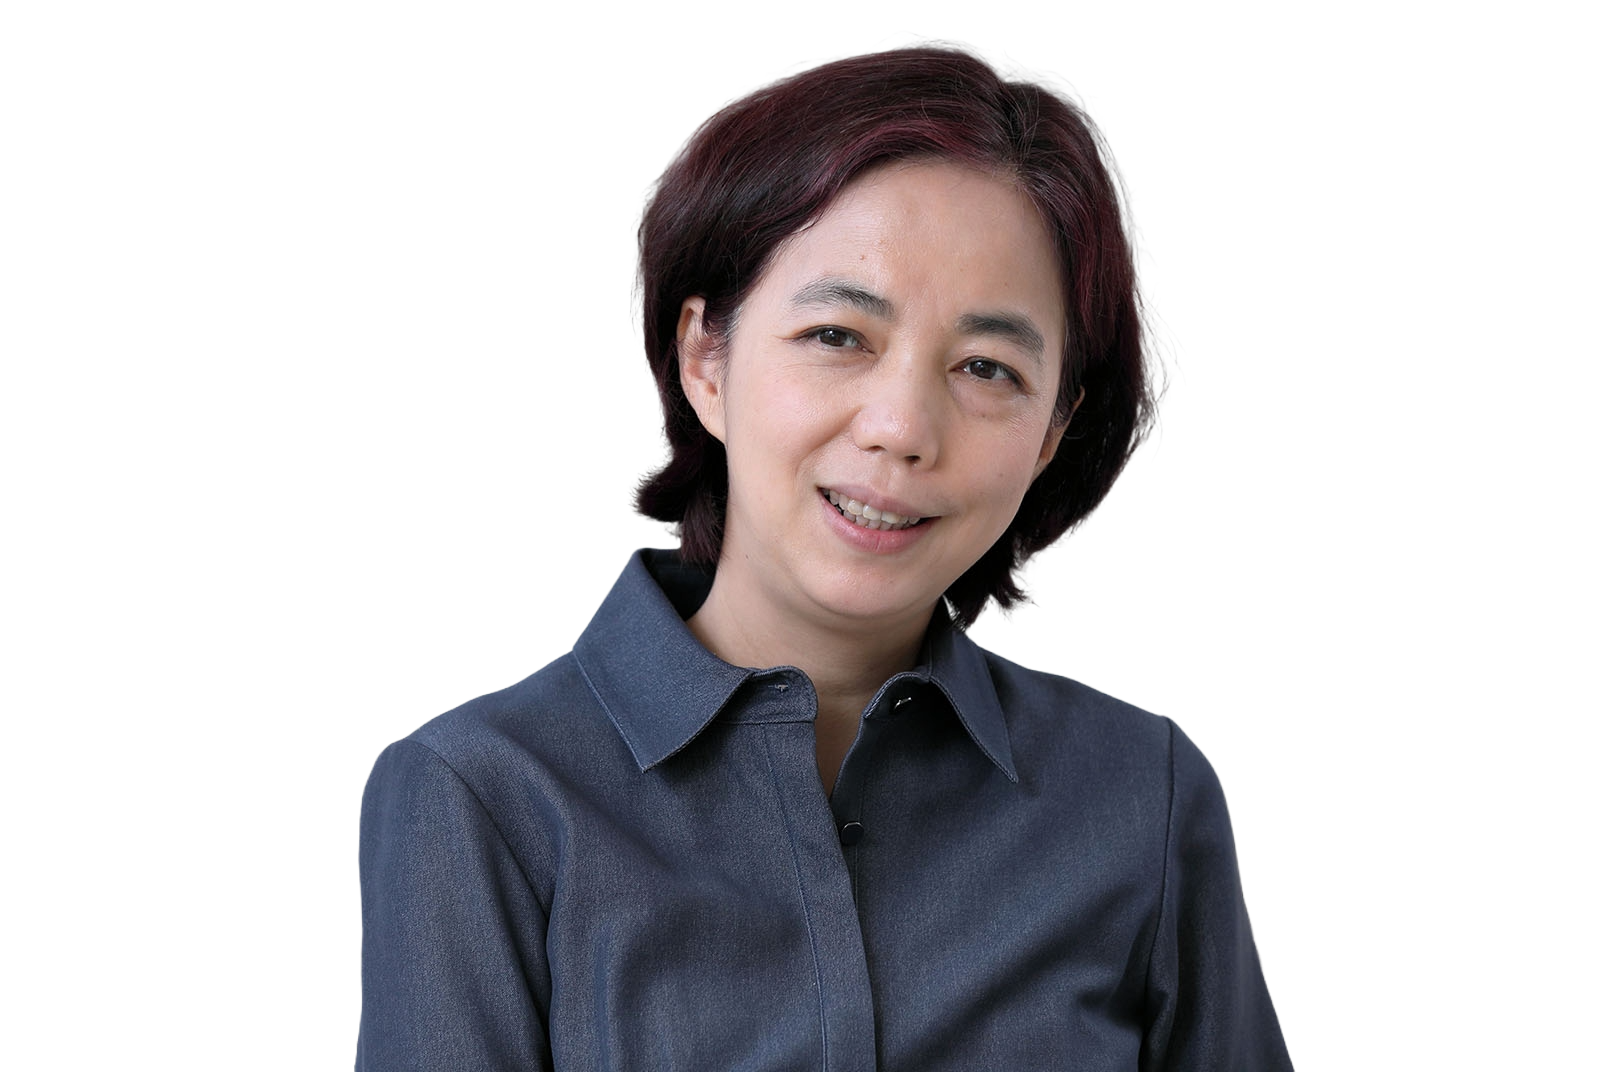
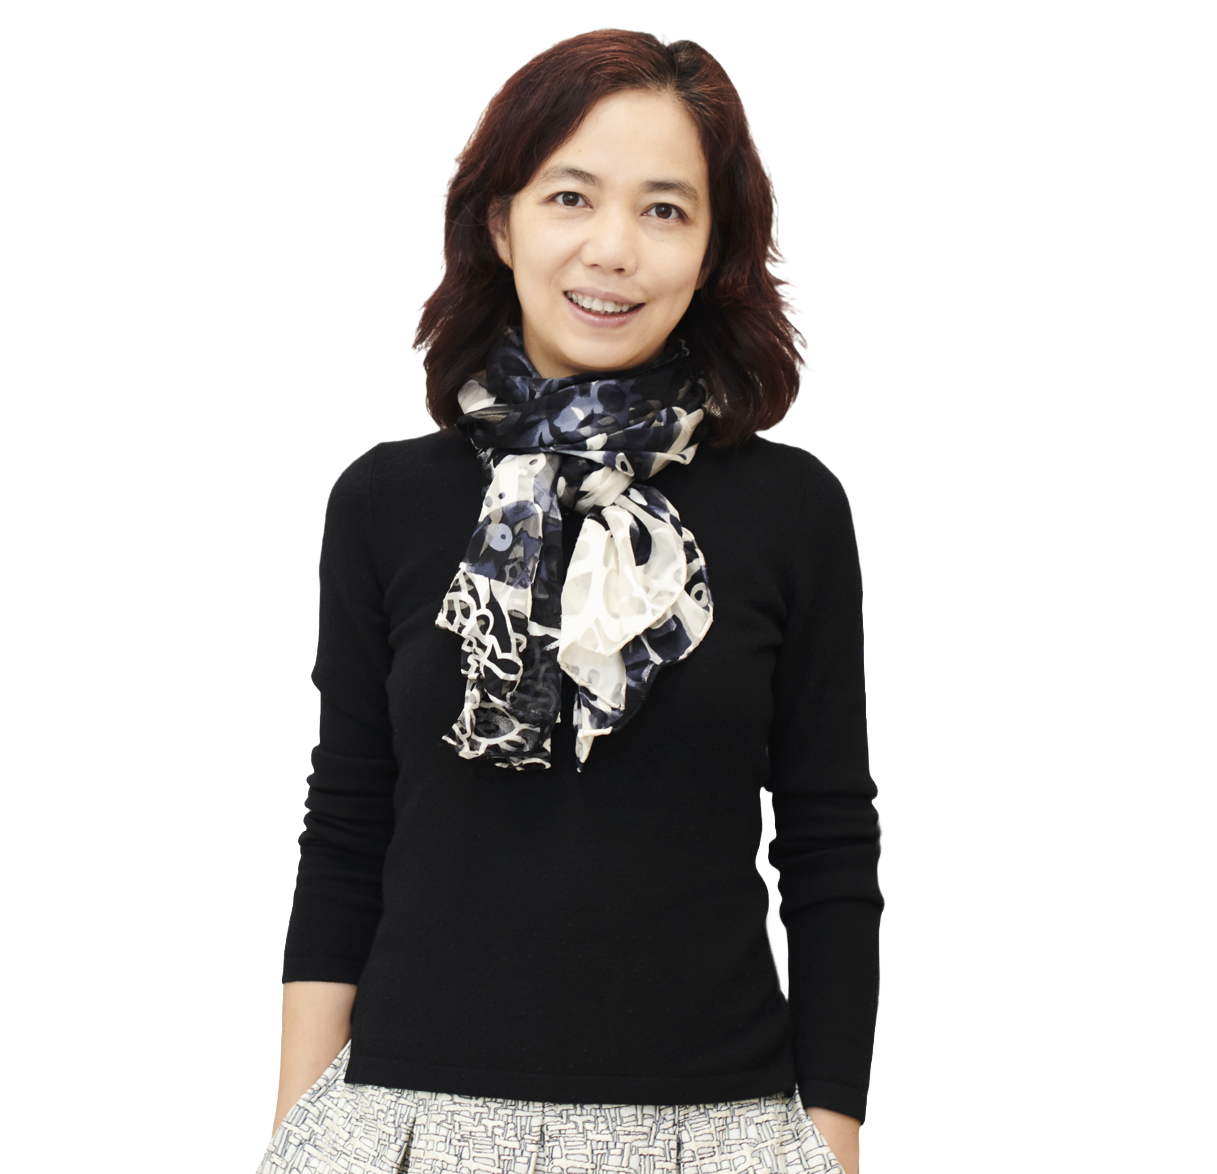
2024/4/18

diff --git a/index.html b/index.html
@@ -1,7 +1,7 @@
 <!DOCTYPE html>
 <html lang="en">
     <head>
-        <title>AI Poineer - Fei-Fei Li</title>
+        <title>AI Pioneer - Fei-Fei Li</title>
         <meta charset="utf-8">
         <meta name="viewport" content="width=device-width, initial-scale=1, user-scalable=no">
         <meta name="description" content="Female Scientist - Fei-Fei Li">
@@ -38,7 +38,7 @@
                 <nav class="l-side-nav">
                     <ul class="side-nav list-unstyled">
                         <li class="active"><span>Home</span></li>
-                        <li><span>Works</span></li>
+                        <li><span>Intro</span></li>
                         <li><span>About</span></li>
                         <li><span>Contact</span></li>
                         <li><span>Hire us</span></li>
@@ -46,27 +46,41 @@
                 </nav>
 
                 <ul class="main list-unstyled">
-                    <li class="section active">
-                        <div class="intro">
+                    <li class="section">
+                        <div class="section-home">
                             <h1>Unveiling<br>AI Wonders - <br>Dr. Fei-Fei Li</h1>
                             <button id="btn-learnMore">
                                 Learn more <i class="fa-solid fa-angles-right"></i>
                             </button>
-                            <img src="assets/img/photo1.png" alt="Dr. fei fei li">
-                            <!-- <div id="photoCarousel" class="carousel slide carousel-fade" data-bs-ride="carousel" data-bs-interval="2000">
+                            <!-- <img src="assets/img/photo1.png" alt="Dr. fei fei li"> -->
+                            <div id="photoCarousel" class="carousel slide carousel-fade" data-bs-ride="carousel" data-bs-interval="5000">
                                 <div class="carousel-inner">
                                     <div class="carousel-item active">
-                                        <img src="assets/img/photo3.png" alt="Dr. fei fei li">
+                                        <img src="assets/img/photo1.png" class="d-block w-100" alt="Dr. fei fei li">
+                                    </div>
+                                    <div class="carousel-item">
+                                        <img src="assets/img/photo2.png" class="d-block w-100" alt="Dr. fei fei li">
+                                    </div>
+                                    <div class="carousel-item">
+                                        <img src="assets/img/photo3.png" class="d-block w-100" alt="Dr. fei fei li">
                                     </div>
                                 </div>
-                            </div>                            -->
+                            </div>                           
                         </div>
                     </li>
 
                     <li class="section">
+                        <div class="section-intro">
+                            <p>Fei-Fei Li is a leading Chinese computer scientist specializing in machine learning and artificial intelligence.</p> 
+                            <p>With roles at Google and Stanford University, she has made significant contributions to computer vision and deep learning research.</p>
+                        </div>
 
                     </li>
-                    <li class="section">
+                    <li class="section active">
+                        <div class="section-intro">
+                            <p>Fei-Fei Li is a leading Chinese computer scientist specializing in machine learning and artificial intelligence.</p> 
+                            <p>With roles at Google and Stanford University, she has made significant contributions to computer vision and deep learning research.</p>
+                        </div>
                         
                     </li>
                     <li class="section">

diff --git a/assets/css/main.css b/assets/css/main.css
@@ -66,7 +66,6 @@ header {
 .main {
     grid-area: main;
     height: 100%;
-    box-shadow: 10px 5px 10px #343434;
 }
 .footer {
     grid-area: footer;
@@ -207,49 +206,38 @@ header {
 }
 
 .section{
-    height: 100%;
-    width: 100%;
     visibility: hidden;
 }
 .section.active {
     visibility: visible;
 }
-.intro {
+.section-home {
     padding: 20px;
     position: relative;
     height: 100%;
     width: 100%;
-
+    border-bottom: #343434 2px solid;
+    
 }
-.intro h1 {
+.section-home h1 {
 	font-size: 68px;
 	font-weight: 900;
 	line-height: 1;
 	z-index: 1;
     text-shadow: #4f4f4f 5px 5px 5px; 
 }
-.intro img {
-    position: absolute;
-    height: 100%;
-    right: 35%;
-    top: 0;
-    
-}
 #photoCarousel {
     position: absolute;
     height: 100%;
-    right: 35%;
+    width: 450px;
     top: 0;
-    border: solid;
+    right: 30%;
 }
 .carousel-inner {
     height: 100%;
-    top: 0;
 }
-.carousel-item img{
-    top: 0;
+.carousel-item {
     height: 100%;
-    width: auto;
 }
 #btn-learnMore {
     position: absolute;
@@ -259,9 +247,15 @@ header {
     background-color: #0f33ff;
     color: white;
     border: none;
-    padding: 5px 15px 5px 15px;
-    transition: 0.5s ease-in-out;
+    padding: 10px 15px 10px 15px;
+    transition: 0.3s ease-in-out;
 }
 #btn-learnMore:hover {
-    box-shadow: 5px 5px #4f4f4f;
+    box-shadow: 10px 10px #4f4f4f;
+}
+.section-intro {
+    position: relative;
+    height: 100%;
+    width: 100%;
+    border: solid;
 }

diff --git a/assets/js/functions.js b/assets/js/functions.js
@@ -20,4 +20,23 @@ $(document).ready(function(){
         $(".fa-bars").toggleClass("fa-bars-staggered");
         $(".collapse-btn").toggleClass("active");      
     })
+
+
+    function updateContent(curPos, nextPos, lastItem) {
+		$('.main-content').children().removeClass('section--is-active');
+		$('.main-content').children().eq(nextPos).addClass('section--is-active');
+		$('.main-content .section').children().removeClass('section--next section--prev');
+		if (curPos === lastItem && nextPos === 0 || curPos === 0 && nextPos === lastItem) {
+			$('.main-content .section').children().removeClass('section--next section--prev');
+		} else if (curPos < nextPos) {
+			$('.main-content').children().eq(curPos).children().addClass('section--next');
+		} else {
+			$('.main-content').children().eq(curPos).children().addClass('section--prev');
+		}
+		if (nextPos !== 0 && nextPos !== lastItem) {
+			$('.header--cta').addClass('is-active');
+		} else {
+			$('.header--cta').removeClass('is-active');
+		}
+	}
 })
